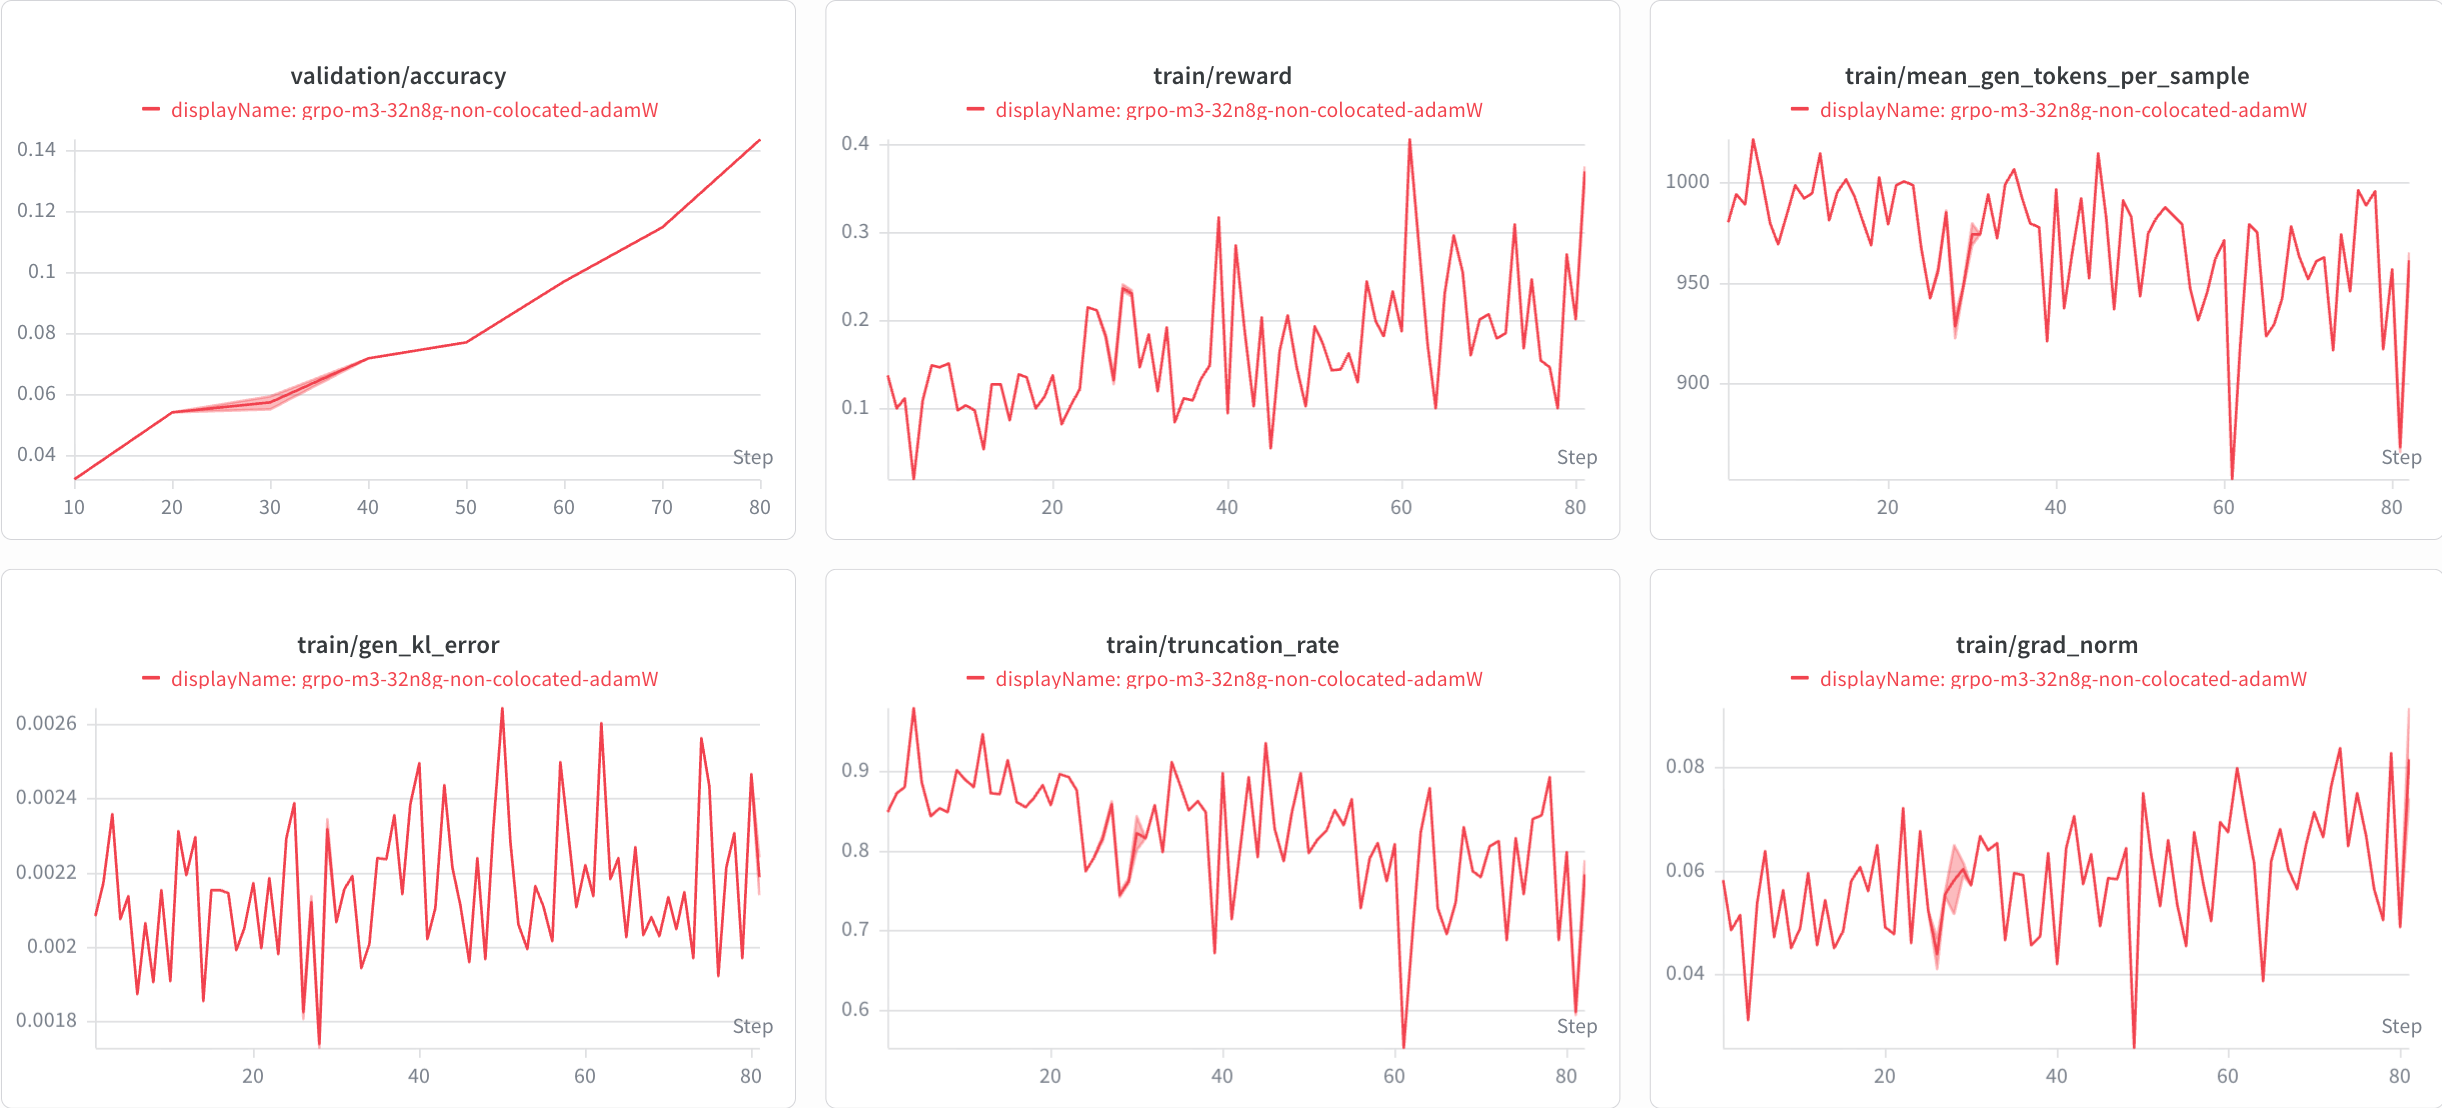
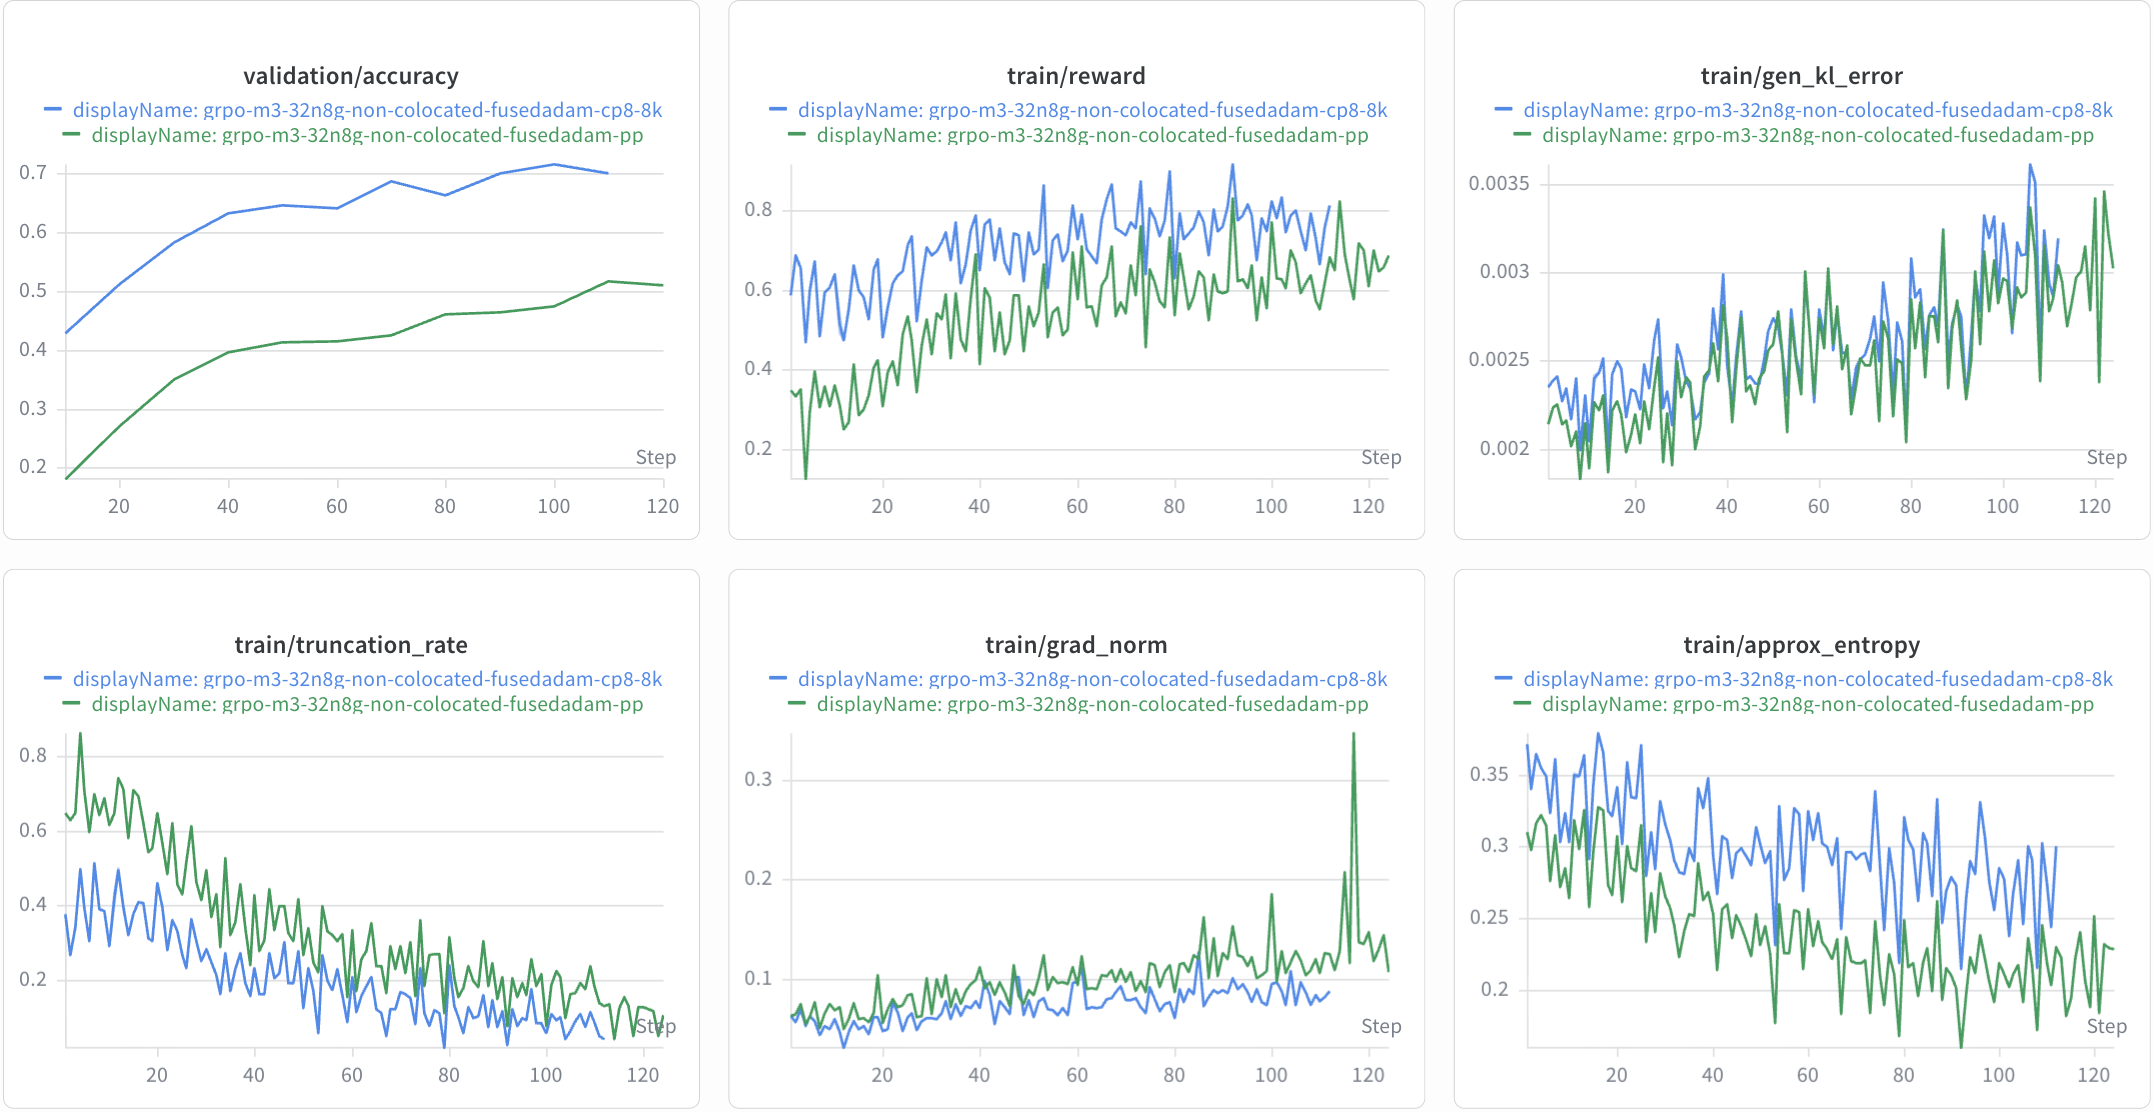
docs: validate MiniMax-M3 CP support, drop EP-only recipe
- Add exp/grpo-m3-32n8g-non-colocated-fused-adam-cp8.yaml (EP=128 +
  CP=8, FusedAdam, 8k sequence length), the recipe used to validate
  Context Parallel for MiniMax-M3.
- docs/guides/minimax-m3.md: drop the EP-only reference recipe/curve
  now superseded by EP+PP and EP+CP; replace the two separate curve
  images with the consolidated docs/assets/minimax_m3_grpo_curve.png
  (covers both EP+PP and EP+CP runs); update Known Issues/What's Next
  now that CP is validated rather than pending.

diff --git a/docs/guides/minimax-m3.md b/docs/guides/minimax-m3.md
@@ -13,12 +13,12 @@ validated scope, the reference GRPO recipes, and known limitations.
 
 | Model                | Training backend    | Training parallelism                              | Inference backend | Precision                                       | Status           |
 | -------------------- | ------------------- | ------------------------------------------------- | ----------------- | ----------------------------------------------- | ---------------- |
-| MiniMaxAI/MiniMax-M3 | AutoModel (DTensor) | Expert Parallel (EP) and Pipeline Parallel (PP)   | vLLM              | BF16 training weights with BF16 vLLM generation | Functional Ready |
+| MiniMaxAI/MiniMax-M3 | AutoModel (DTensor) | EP, PP and CP  | vLLM              | BF16 training weights with BF16 vLLM generation | Functional Ready |
 
 Validated scope:
 
 - **Training backend**: [NeMo AutoModel](https://github.com/NVIDIA-NeMo/Automodel).
-- **Training parallelism**: Expert Parallel (EP) and Pipeline Parallel (PP).
+- **Training parallelism**: Expert Parallel (EP), Pipeline Parallel (PP) and Context Parallel (CP).
 - **Inference backend**: [vLLM](https://github.com/vllm-project/vllm).
 - **Precision**: BF16 training weights and BF16 vLLM generation.
 
@@ -61,16 +61,17 @@ Two reference GRPO recipes are provided. Both run non-colocated vLLM generation
 (`generation.colocated.enabled: false`) on the DAPO Math datasets
 (`DAPOMath17K` for training, `DAPOMathAIME2024` for validation).
 
-**EP only — `exp/grpo-minimax-m3-32n8g-non-colocated.yaml`**
-
-- AutoModel (DTensor) training with `expert_parallel_size: 128`.
-- 2048-token maximum sequence length.
-
 **EP + PP — `exp/grpo-minimax-m3-32n8g-non-colocated-fused-adam-pp.yaml`**
 
 - AutoModel (DTensor) training with `expert_parallel_size: 32` and
   `pipeline_parallel_size: 4`.
 - Fused Adam optimizer and a 4096-token maximum sequence length.
+
+**EP + CP — `exp/grpo-m3-32n8g-non-colocated-fused-adam-cp8.yaml`**
+
+- AutoModel (DTensor) training with `expert_parallel_size: 128` and
+  `context_parallel_size: 8`.
+- Fused Adam optimizer and an 8192-token maximum sequence length.
 
 ### 3. Launch
 
@@ -80,40 +81,27 @@ above:
 ```bash
 export NRL_FORCE_REBUILD_VENVS=true
 
-# EP only
-uv run examples/run_grpo.py \
-  --config exp/grpo-minimax-m3-32n8g-non-colocated.yaml
-
 # EP + PP
 uv run examples/run_grpo.py \
   --config exp/grpo-minimax-m3-32n8g-non-colocated-fused-adam-pp.yaml
+
+# EP + CP
+uv run examples/run_grpo.py \
+  --config exp/grpo-m3-32n8g-non-colocated-fused-adam-cp8.yaml
 ```
 
 ### Reference Training Curves
 
-The following curves were produced with the reference recipes above.
+The following curve was produced with the reference recipes above, covering
+both the EP + PP and EP + CP configurations:
 
-EP only (`exp/grpo-minimax-m3-32n8g-non-colocated.yaml`):
-
-![MiniMax-M3 GRPO training curve (EP only)](../assets/minimax_m3_grpo_curve.png)
-
-EP + PP (`exp/grpo-minimax-m3-32n8g-non-colocated-fused-adam-pp.yaml`):
-
-![MiniMax-M3 GRPO training curve (EP + PP)](../assets/minimax_m3_grpo_curve_ep_pp.png)
+![MiniMax-M3 GRPO training curve (EP + PP and EP + CP)](../assets/minimax_m3_grpo_curve.png)
 
 ## Known Issues
 
-- **Sequence length**: The validated configurations cover EP=128 at a 2k
-  sequence length and EP=32 + PP=4 at a 4k sequence length. Longer sequences may
-  OOM and will likely require additional parallelism such as Context Parallel
-  (CP).
 - **Long-run validation**: Current validation covers short training runs only;
   long-run convergence has not been established.
-- **Additional parallelism**: CP and sequence packing are not yet part of the
-  validated MiniMax-M3 training scope.
 
 ## What's Next
 
 - Validate long-run MiniMax-M3 training.
-- Add and validate more training parallelism, especially CP, to support longer
-  contexts.